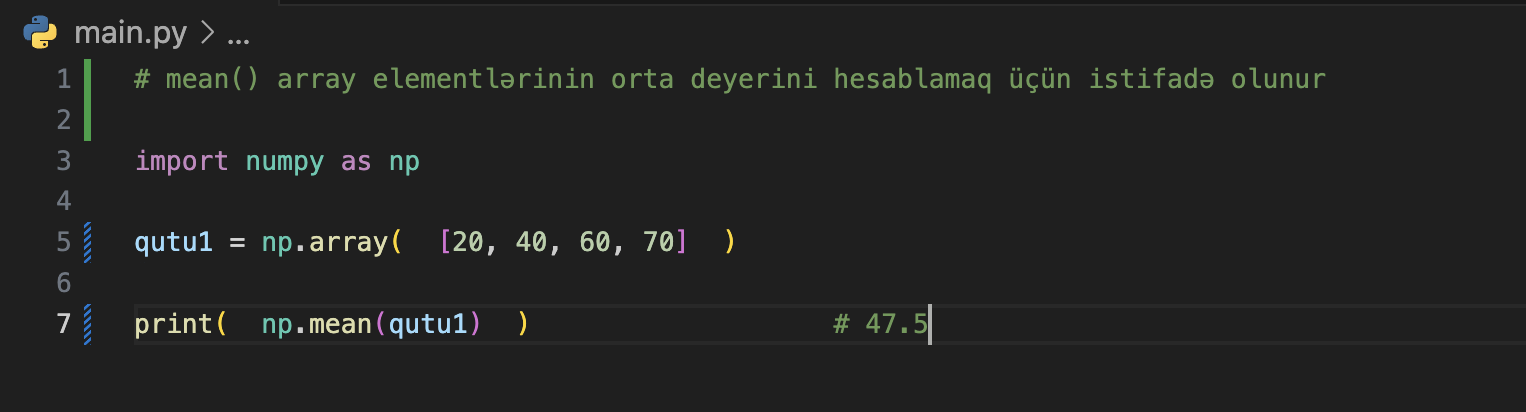
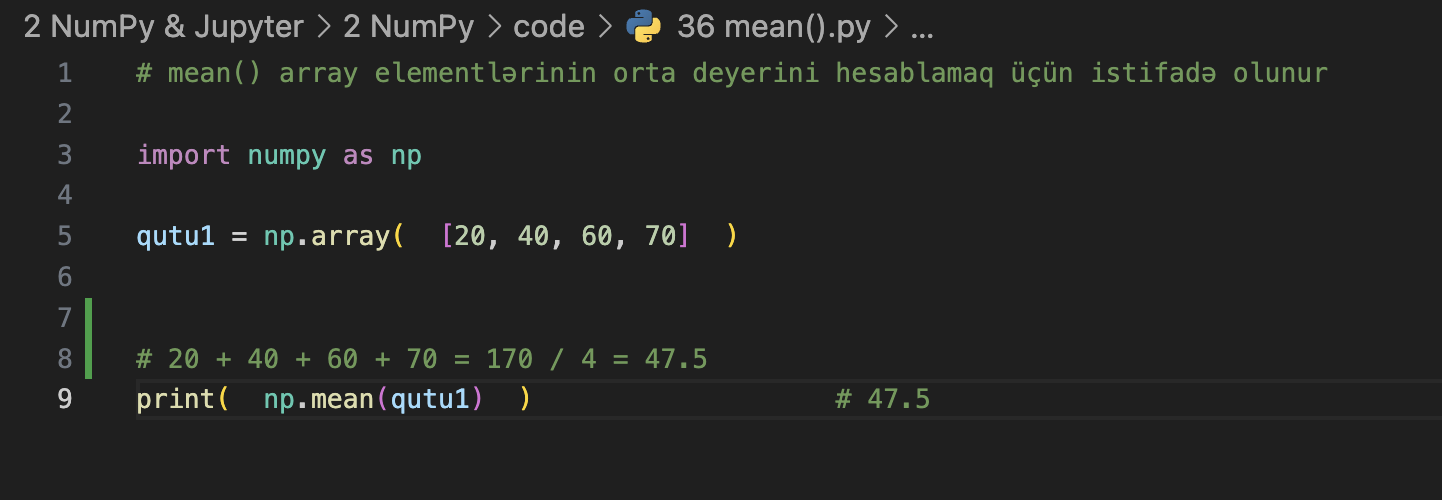
pandas

diff --git a/2 NumPy & Jupyter/2 NumPy/code/41 std().py b/2 NumPy & Jupyter/2 NumPy/code/41 std().py
@@ -1,0 +1,39 @@
+# std() metodu, array deyerlerinin bir-birine ne qeder yaxın yaxud ne qeder uzaq olduğunun ferqini qaytarır.
+import numpy as np
+qutu1 = [200, 300, 150, 130, 200, 280, 170, 188]
+print(  np.std(qutu1)  )                    
+
+#! 1) Вычисление среднего значения:
+# 200 + 300 + 150 + 130 + 200 + 280 + 170 + 188 = 1618  / 8 = 202.25
+
+#! 2) Разность между каждым элементом и средним значением:
+# 200−202.25 = −2.25
+# 300−202.25 = 97.75
+# 150−202.25 = −52.25
+# 130−202.25 = −72.25
+# 200−202.25 = −2.25
+# 280−202.25 = 77.75
+# 170−202.25 = −32.25
+# 188−202.25 = −14.25
+
+#! 3) Квадраты отклонений:
+# −2.25   ^2   =  5.0625
+# 97.75   ^2   =  9555.0625
+# −52.25  ^2   =  2730.5625
+# −72.25  ^2   =  5220.0625
+# −2.25   ^2   =  5.0625    
+# 77.75   ^2   =  6050.5625
+# −32.25  ^2   =  1039.5625
+# −14.25  ^2   =  203.0625
+
+#! 4) Вычисление среднего значения квадратов отклонений
+ # 5.0625 + 9555.0625 + 2730.5625 + 5220.0625 + 5.0625 + 6050.5625 + 1039.5625 + 203.0625 = 24709.9375 / 8 = 3088.7421875
+
+#! 5) Корень из среднего значения квадратов отклонений
+#  3088.7421875 ededinin kokalti = 55.68157235567257
+
+# Təsəvvür edək ki, sinifdəki şagirdlərin boyu haqqında məlumatımız var. Bu artımın ortalaması bizə orta hesabla hansı artımı gözləyə biləcəyimiz
+# barədə ümumi fikir verəcəkdir. Bəs tələbələrin boyu fərqli olarsa necə? Bəziləri ortadan yuxarı, bəziləri isə aşağı ola bilər. Standart ferq bu 
+# fərqlərin ortadan nə qədər böyük olduğunu anlamağa imkan verir. Əgər standart ferq böyükdürsə, bu o deməkdir ki, şagirdlərin boyu orta göstəricidən 
+# kifayət qədər fərqlənir, kiçikdirsə, onların boyu daha çox oxşardır. Beləliklə, standart ferq bizə deyerlerin nə qədər "müxtəlif" və ya "oxşar" ola 
+# biləcəyini anlamağa kömək edir.

diff --git a/2 NumPy & Jupyter/2 NumPy/code/39 median().py b/2 NumPy & Jupyter/2 NumPy/code/39 median().py
@@ -1,0 +1,20 @@
+# median() metodu arraydaki dəyərlərin medianıni hesablamaq üçün istifadə olunur.
+
+
+import numpy as np
+#! Median ededlerin ardıcıl siyahısını iki bərabər yarıya bölən dəyərdir. Yeni deyerler ilk once
+#! artan sira ile yeniden formalasir ve tam kerkezdeki deyer median sayilir.
+qutu1 = [200, 300, 150, 130, 200, 280, 170]
+yeni_array1 = np.array(qutu1)
+# [130, 150, 170, 200, 200, 280, 300]
+print(  np.median(yeni_array1)  )         # 200
+
+
+
+
+#! Eger verilmis ededlerin sayi cutdurse, onda en ortada yerlesen ardicil iki eded toplanaraq 
+#! 2-ye bolunur. 
+qutu2 = [200, 300, 150, 130, 200, 280, 170, 188]
+yeni_array2 = np.array(qutu2)
+# [130, 150, 170, 188, 200, 200, 280, 300]   
+print(  np.median(yeni_array2)  )         # (188 + 200) / 2 = 194.0

diff --git a/2 NumPy & Jupyter/2 NumPy/code/40 mode().py b/2 NumPy & Jupyter/2 NumPy/code/40 mode().py
@@ -1,0 +1,25 @@
+# mode() metodu, en cox tekrarlanan oxsar deyer hansidirsa onu elde etmek ucun istifade edilir.
+
+# mode() metoduna parametr olaraq list yaxud array vermek olar. 
+
+import numpy as np
+import statistics as stats
+
+
+qutu1 = [200, 300, 150, 130, 200, 280, 170]
+#! yeni_qutu3 = np.array(qutu1)
+print(  stats.mode(qutu1)  )                    # 200
+
+
+
+
+qutu2 = [200, 150, 150, 150, 200, 280, 170]
+#! yeni_qutu3 = np.array(qutu2)
+print(  stats.mode(qutu2)  )                    # 150
+
+
+
+# Eger tekrarlanma her deyer ucun eyni sayda olarsa onda en basda duran deyer esas goturulecekdir.
+qutu3 = [150, 150, 150, 150,    200, 200, 200, 200,    170, 170, 170, 170 ]
+#! yeni_qutu3 = np.array(qutu3)
+print(  stats.mode(qutu3)  )                    # 150

diff --git a/2 NumPy & Jupyter/2 NumPy/code/42 var().py b/2 NumPy & Jupyter/2 NumPy/code/42 var().py
@@ -1,0 +1,14 @@
+# var() metodu, std() metodu ile eyni isi gorur. Sadece std metoduna elave olaraq, deyerler arasindaki benzerlik ferqi tapdiqdan 
+# sonra hemin ferqin kvadratini qaytarir.
+
+
+import numpy as np
+
+
+qutu1 = [200, 300, 150, 130, 200, 280, 170, 188]
+
+
+
+print(  np.var(qutu1)  )                    # 3100.4375
+
+print(  55.68157235567257**2  )             # 3100.4375   

diff --git a/2 NumPy & Jupyter/2 NumPy/code/36 mean().py b/2 NumPy & Jupyter/2 NumPy/code/36 mean().py
@@ -4,4 +4,6 @@ import numpy as np
 
 qutu1 = np.array(  [20, 40, 60, 70]  )
 
+
+# 20 + 40 + 60 + 70 = 170 / 4 = 47.5
 print(  np.mean(qutu1)  )                   # 47.5
